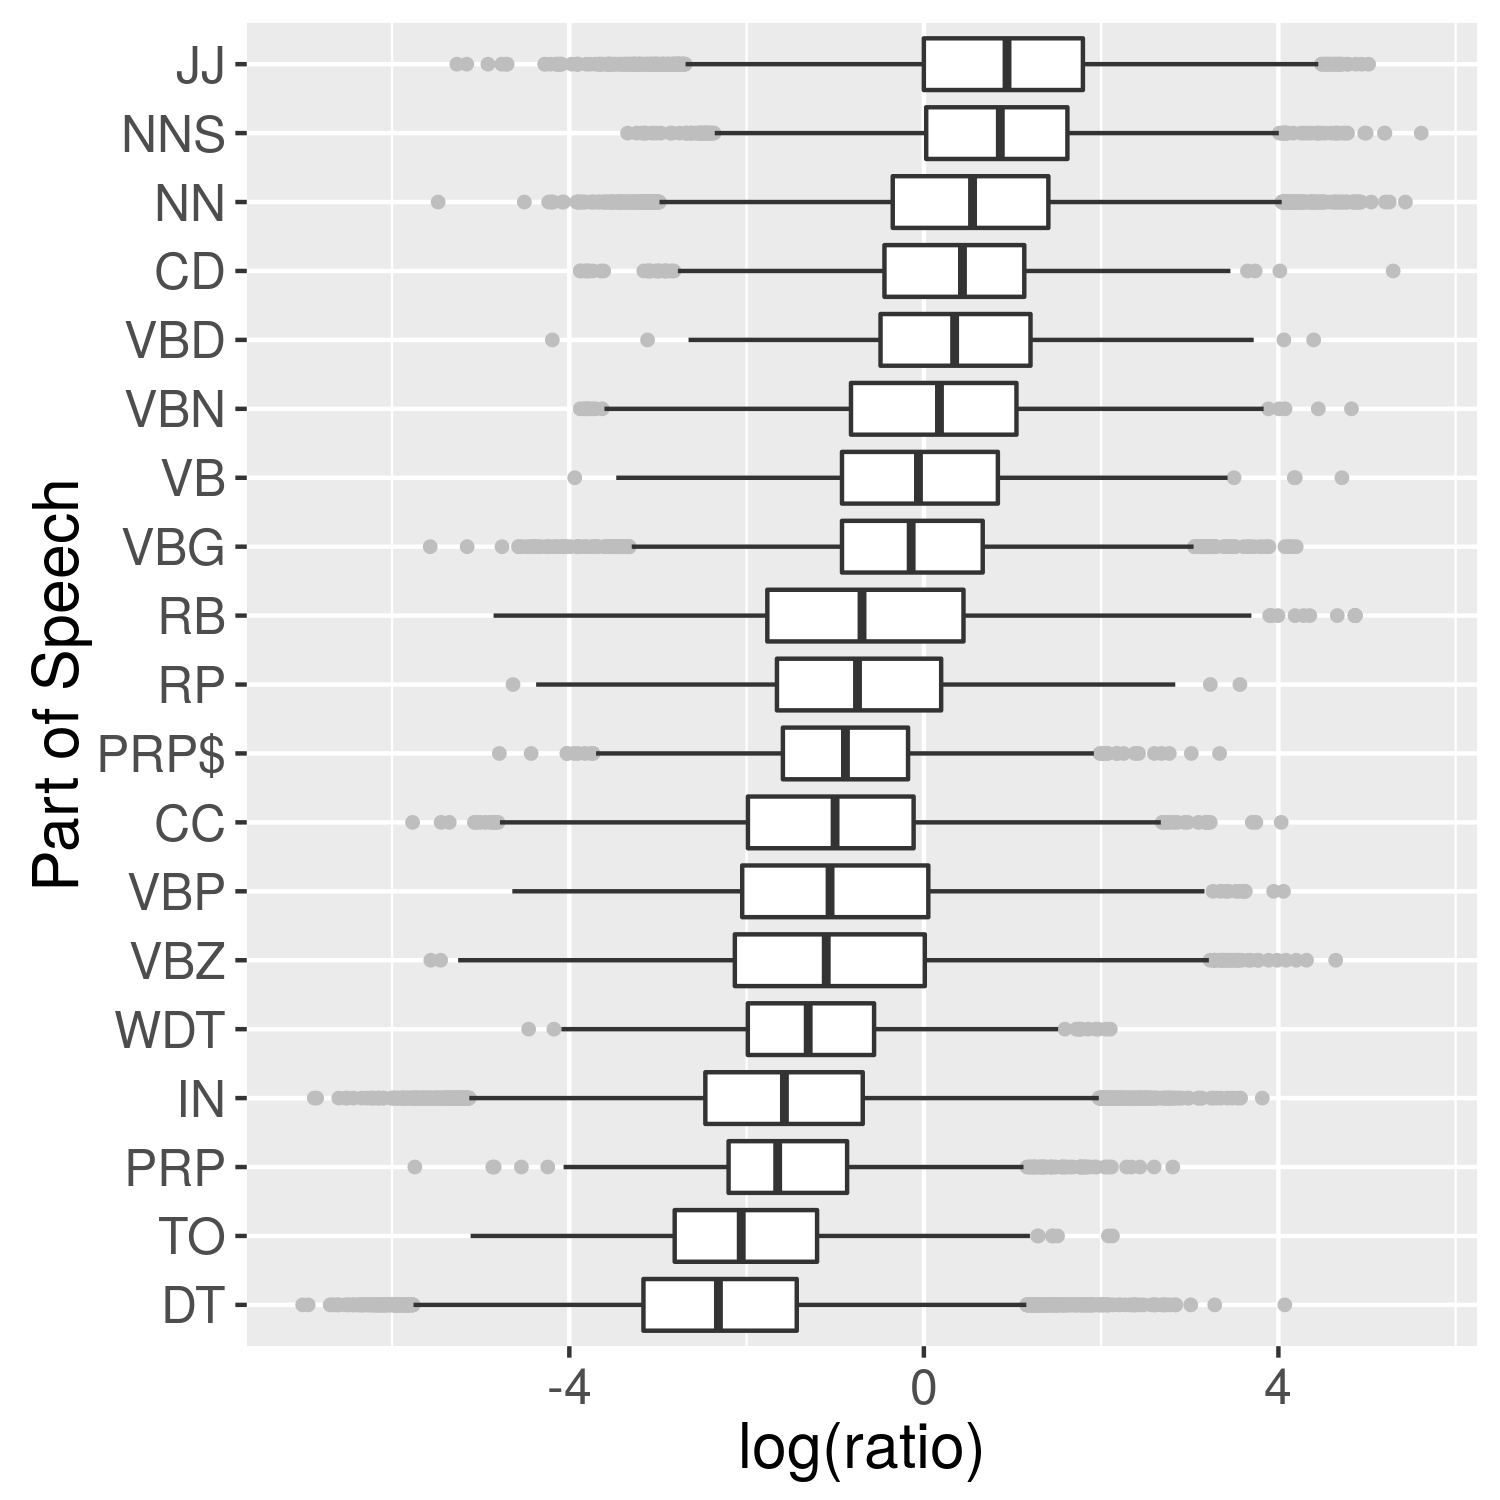
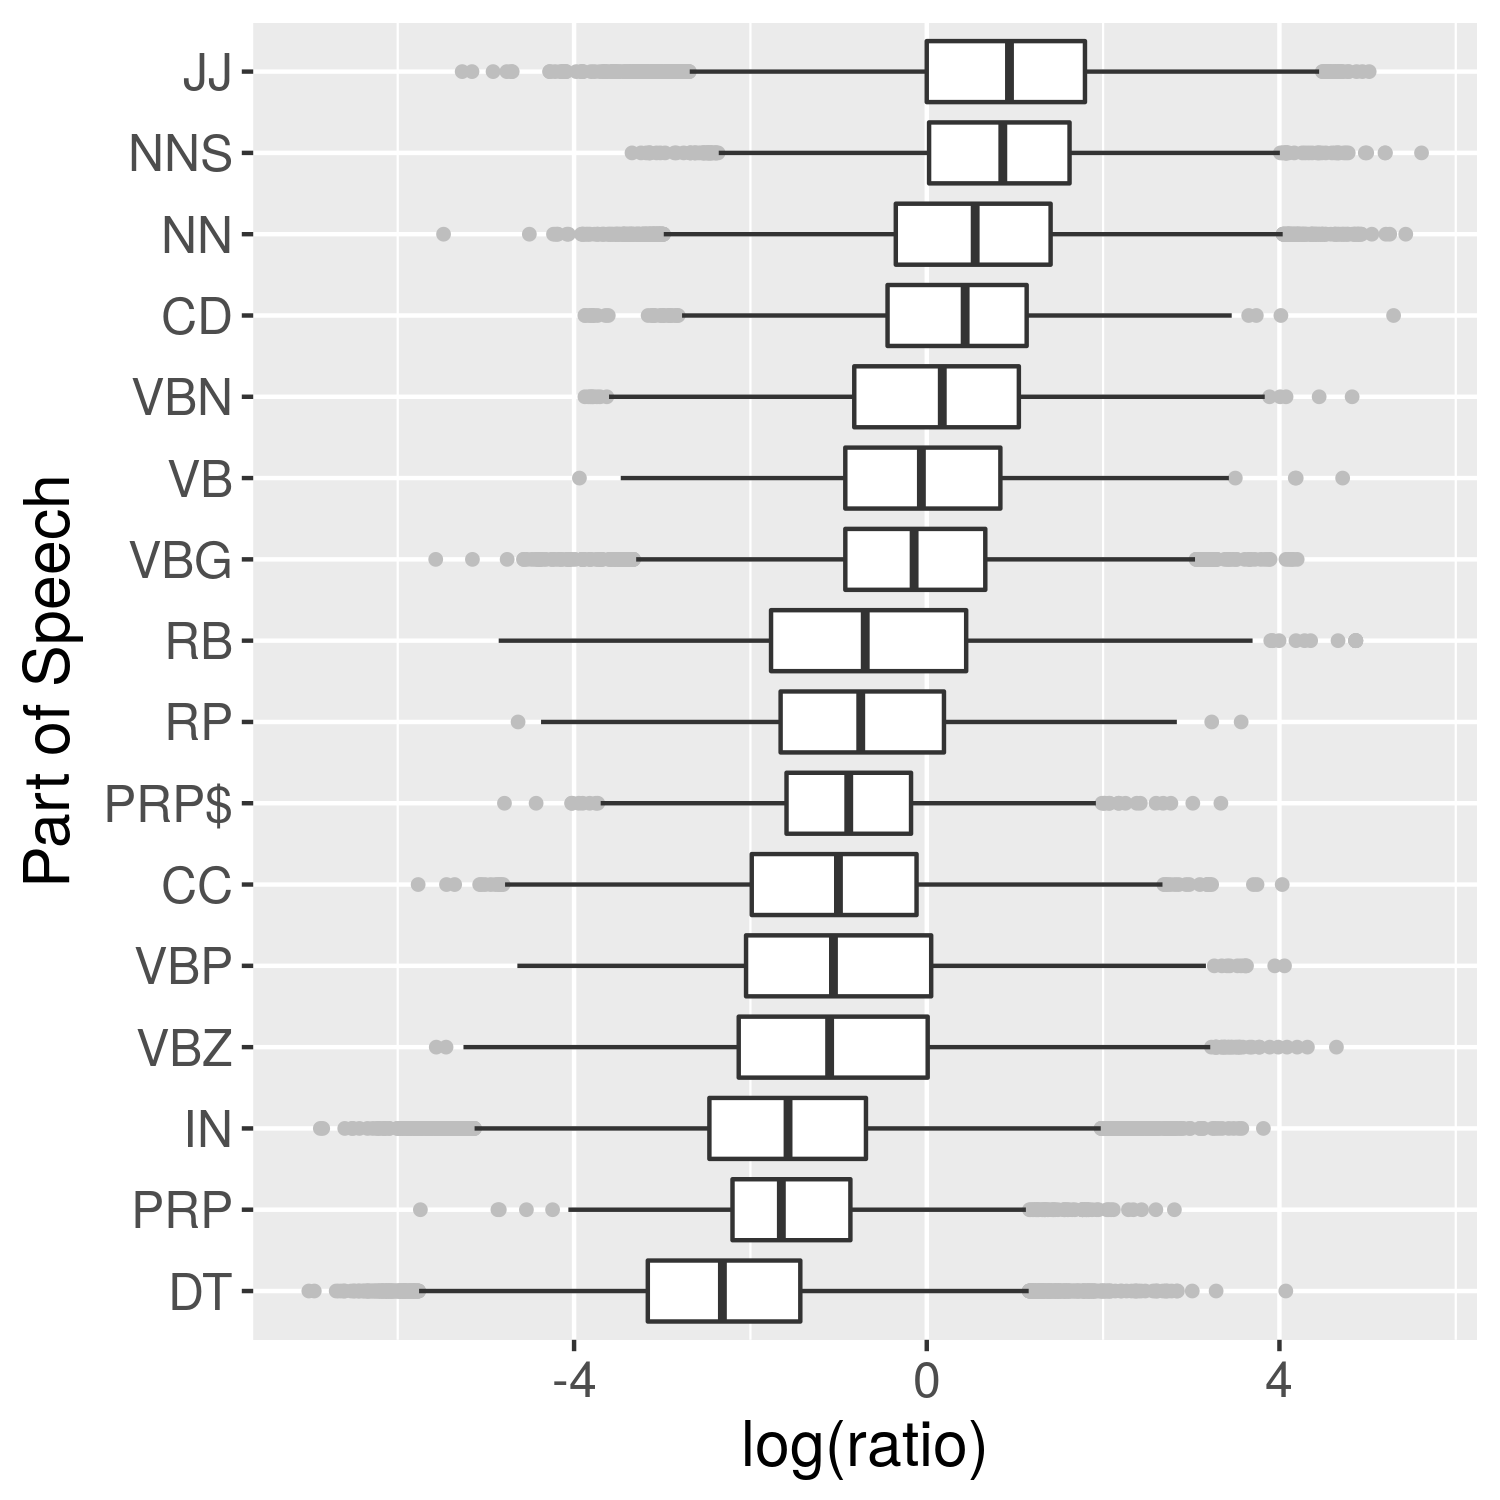
Plots.

Changed region(s): [[0.184, 0.0, 0.9507, 1.0], [0.0, 0.0307, 0.1533, 0.8893]]

diff --git a/doc/categories.tex b/doc/categories.tex
@@ -185,19 +185,21 @@ model is more sensitive overall to input perturbations than {\sc Textual}.
 
 %-----------------
 \label{subsec:omission-text-vis}
-\begin{figure*}[t]
+\begin{figure}[!htbp]
+\centering
 %\hspace*{-0.3in}
-\setlength{\tabcolsep}{0pt}
-  \begin{tabular}{cc}
-  \includegraphics[scale=0.6]{imaginet-omission-pos-boxplot.png} &
-  \includegraphics[scale=0.6]{imaginet-omission-dep-boxplot.png} \\
-  \end{tabular}
+%\setlength{\tabcolsep}{0pt}
+%  \begin{tabular}{cc}
+  \includegraphics[scale=0.9]{imaginet-omission-pos-boxplot.png} 
+
+  \includegraphics[scale=0.9]{imaginet-omission-dep-boxplot.png} 
+%  \end{tabular}
   
 \caption{Distribution of omission scores for POS (left) and dependency labels
   (right), for the {\sc Textual} and {\sc Visual} pathways and for
-  {\sc LM}. Only labels which occur at least 500 times are included.}
+  {\sc LM}. Only labels which occur at least 1250 times are included.}
 \label{fig:omission-imaginet}
-\end{figure*}
+\end{figure}
 
 \begin{figure*}[t]
   \centering
@@ -208,7 +210,7 @@ model is more sensitive overall to input perturbations than {\sc Textual}.
   \includegraphics[scale=0.55]{imaginet-omission-ratio-dep-boxplot.png} \\  
   \end{tabular}
   \caption{Distributions of log ratios of omission scores of {\sc Textual} to {\sc Visual} per
-    POS (left) and dependency labels (right). Only labels which occur at least 500 times are included.}
+    POS (left) and dependency labels (right). Only labels which occur at least 1250 times are included.}
 \label{fig:omission-imaginet-ratio}
 \end{figure*}
 
@@ -254,17 +256,16 @@ to {\sc Textual} omission scores, and plots the distribution of this
 ratio for different POS and dependency labels.  Log ratios above zero
 indicate stronger association with the {\sc Visual} pathway and below
 zero with the {\sc Textual} pathway. We see that in relative terms,
-{\sc Visual} is more sensitive to adjectives (JJ), nouns (NNS, NN) and
-numerals (CD), and {\sc Textual} to the prepositions (TO, IN),
-determiners (DT, WDT) and pronouns (PRP) as well as some types of
-verbs (VBZ, VBP).
+{\sc Visual} is more sensitive to adjectives (JJ), nouns (NNS, NN),
+numerals (CD) and participles (VBN), and {\sc Textual} to determiners
+(DT), pronouns (PRP), prepositions (IN) as well finite verbs
+(VBZ, VBP).
 
 This picture is complemented by the analysis of the
 relative importance of dependency relations: {\sc Visual} pays most
-attention to the relations {\sc nsubjpass, attr, amod, nsubj, root,
+attention to the relations {\sc amod, nsubj, root,
   compound, dobj, nummod}
-whereas {\sc Textual} is more sensitive to {\sc det, mark, prep, aux,
-  auxpass, cc, poss, advmod, prt, relcl}.
+whereas {\sc Textual} is more sensitive to {\sc det, prep, aux, cc, poss, advmod, prt, relcl}.
 As expected, {\sc Visual} is more focused on grammatical
 functions typically filled by semantically contentful words, while
 {\sc Textual} distributes its attention more uniformly and 
@@ -287,7 +288,7 @@ and not transferable across tasks.
   \includegraphics[scale=0.55]{imaginet-omission-quotient-dep-boxplot.png} \\  
   \end{tabular}
   \caption{Distributions of log ratios of omission scores of {\sc LM} to {\sc Textual} per
-    POS (left) and dependency labels (right). Only labels which occur at least 500 times are included.}
+    POS (left) and dependency labels (right). Only labels which occur at least 1250times are included.}
 \label{fig:omission-imaginet-quotient}
 \end{figure*}
 

diff --git a/doc/paper.tex b/doc/paper.tex
@@ -23,7 +23,7 @@
 \usepackage{latexsym}
 \usepackage{arydshln}
 \usepackage{enumitem}
-
+%\usepackage{float}
 \setlist{nolistsep} % needs enumitem
 
 %\let\oldcitep\citep
